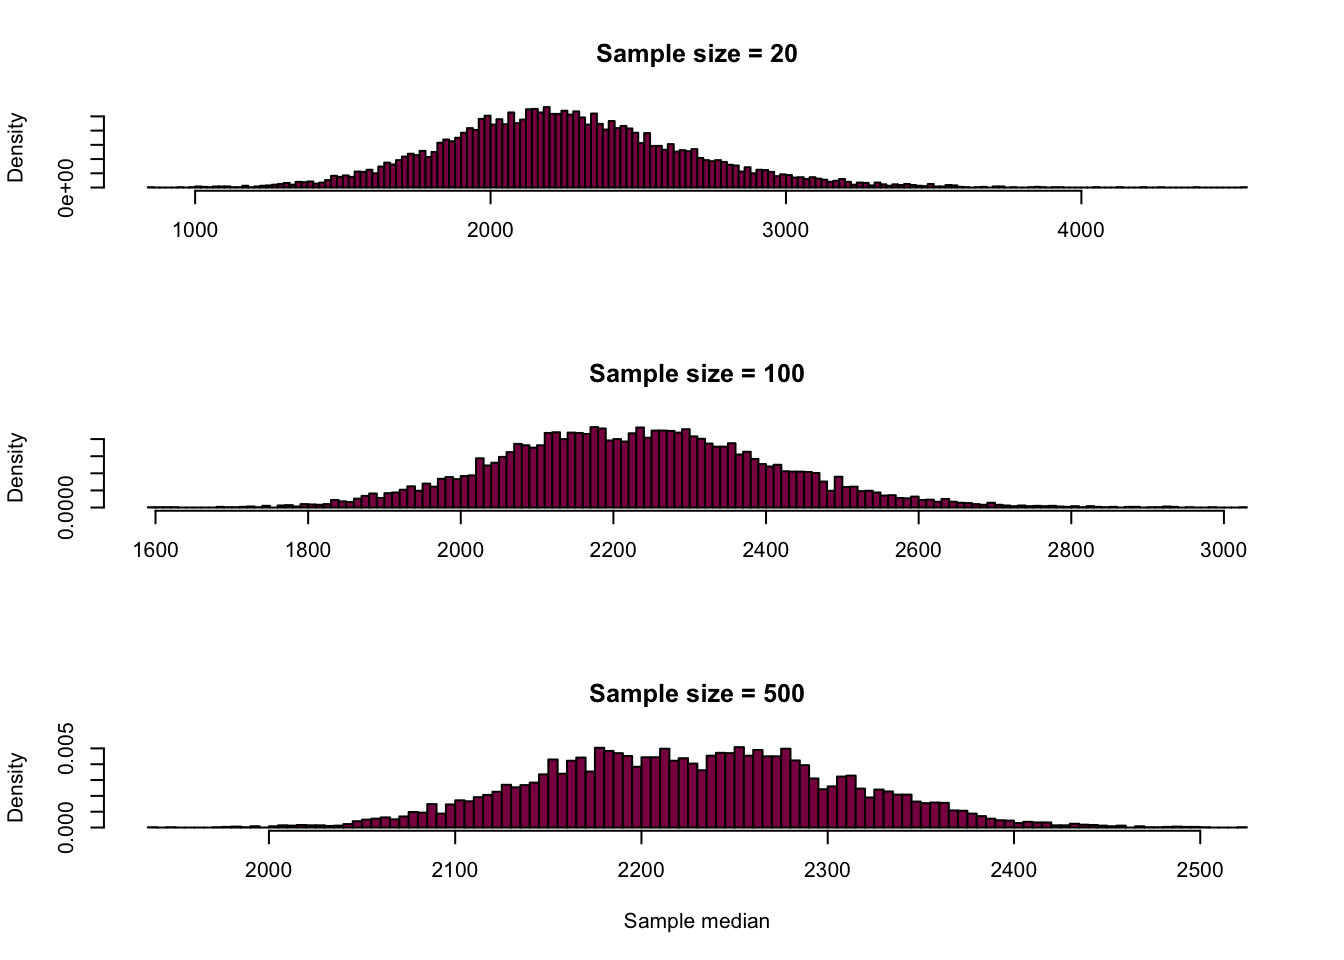
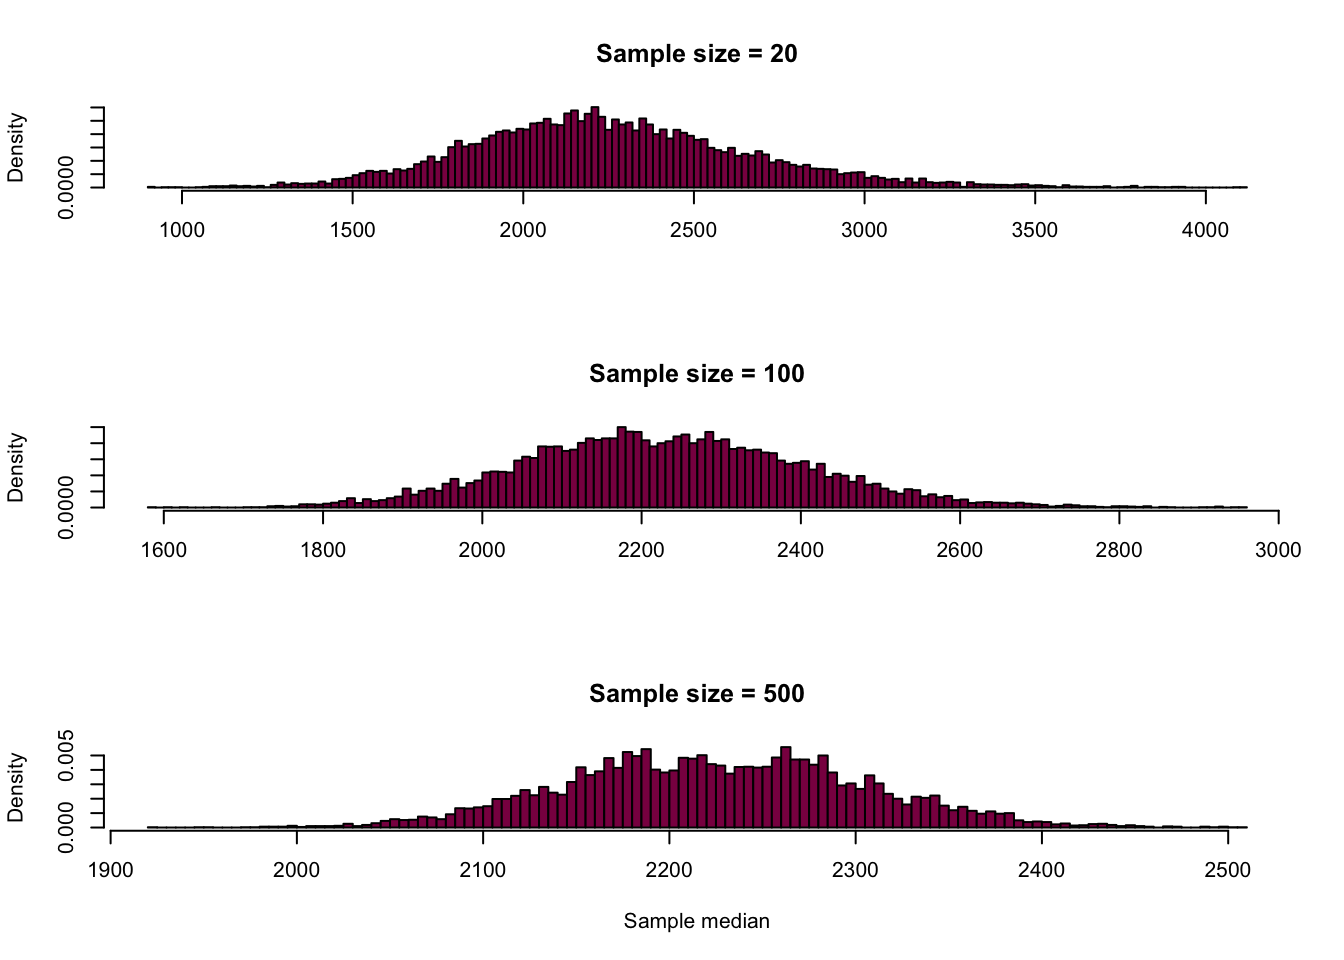
minor change

diff --git a/content/week3.html b/content/week3.html
@@ -5,12 +5,6 @@ date: '2018-02-14'
 slug: week-3
 categories: []
 tags: []
-theme: sandstone
-highlight: zenburn
-output:
-  rmarkdown::html_document:
-    theme: sandstone
-    highlight: zenburn
 ---
 
 
@@ -70,8 +64,7 @@ summary(regulatedGenes)</code></pre>
 <h4>What is the standard error of the mean?</h4>
 <pre class="r"><code>sd(regulatedGenes$ngenes)/sqrt(109)</code></pre>
 <pre><code>## [1] 0.7233423</code></pre>
-<pre class="r"><code># the standard error is the standard deviation divided by the square root of the sample size
-# and here the sample size is 109</code></pre>
+<pre class="r"><code># the standard error is the standard deviation divided by the square root of the sample size and here the sample size is 109</code></pre>
 </div>
 <div id="explain-what-this-standard-error-measures-and-what-assumptions-are-we-making-when-calculating-it." class="section level4">
 <h4>Explain what this standard error measures and what assumptions are we making when calculating it.</h4>
@@ -106,8 +99,7 @@ summary(regulatedGenes)</code></pre>
 <h4>How many genes are in the dataset?</h4>
 <pre class="r"><code>dim(HumanGeneLengths)</code></pre>
 <pre><code>## [1] 20290     1</code></pre>
-<pre class="r"><code>#this indicates the number of rows and the number of columns in the data
-# hence, the number of genes (20290) and the number of variables (1 - gene length)</code></pre>
+<pre class="r"><code># this indicates the number of rows and the number of columns in the data - hence, the number of genes (20290) and the number of variables (1 - gene length)</code></pre>
 </div>
 <div id="draw-a-histogram" class="section level4">
 <h4>Draw a histogram:</h4>
@@ -116,7 +108,7 @@ summary(regulatedGenes)</code></pre>
 </div>
 <div id="identify-what-the-options-col-main-and-xlab-are-allowing-you-to-do." class="section level4">
 <h4>Identify what the options col, main and xlab are allowing you to do.</h4>
-<p><strong>col:</strong> you can add color to your histogram (<a href="http://www.stat.columbia.edu/~tzheng/files/Rcolor.pdf">here is a cool color reference guide if you really want to make it fancy</a>)<br />
+<p><strong>col:</strong> you can add color to your histogram (<a href="http://www.stat.columbia.edu/~tzheng/files/Rcolor.pdf" target ="_blank">here is a cool color reference guide if you really want to make it fancy</a>)<br />
 <strong>main:</strong> adds the title to the histogram<br />
 <strong>xlab:</strong> adds the label on the x axis</p>
 </div>
@@ -216,12 +208,12 @@ myBreaks</code></pre>
 </div>
 <div id="generating-figure-4.1-2" class="section level3">
 <h3><a name="exercise2"></a>Generating Figure 4.1-2</h3>
-<div id="use-the-r-function-sample-to-get-a-vector-of-100-obs-drawn-from-humangenelengths-and-reproduce-fig-4.1-2" class="section level4">
-<h4>Use the R function sample() to get a vector of 100 obs drawn from HumanGeneLengths and reproduce fig 4.1-2</h4>
+<div id="use-the-r-function-sample-to-get-a-vector-of-100-observations-drawn-from-humangenelengths-and-reproduce-fig-4.1-2" class="section level4">
+<h4>Use the R function sample() to get a vector of 100 observations drawn from HumanGeneLengths and reproduce fig 4.1-2</h4>
 <p>Hint: Here is a simple example to draw 5 numbers with replacement from a “made-up” empirical distribution - adapt that for your purposes.</p>
 <pre class="r"><code>madeup=c(3,3,4,5,6,7,8,2,1,3,5,6,12,435,23)
 sample(x = madeup, size = 5,replace = T) # Q:what are the options x=, size= and replace=  specifying here (check the help)?</code></pre>
-<pre><code>## [1] 435   6   3   5   7</code></pre>
+<pre><code>## [1]  3 12  7  3  3</code></pre>
 <p><strong>x:</strong> the data that we want to draw samples from<br />
 <strong>size:</strong> the size of the sample that we want to take<br />
 <strong>replace:</strong> whether or not we want to sample with replacement</p>
@@ -245,7 +237,7 @@ sample(x = madeup, size = 5,replace = T) # Q:what are the options x=, size= and 
 </div>
 <div id="reproducing-figures-4.1-3-and-4.1-4" class="section level3">
 <h3><a name="exercise3"></a>Reproducing Figures 4.1-3 and 4.1-4</h3>
-<p>Conceptually, to generate by simulation the sampling distribution of mean gene length, we resample 100 datapoints, we calculate the mean in the sample and “write it down” and repeat that operation many times (say <span class="math inline">\(10^4\)</span> times).</p>
+<p>Conceptually, to generate by simulation the sampling distribution of mean gene length, we resample 100 datapoints, we calculate the mean in the sample and “write it down” and repeat that operation many times (say 10^4 times).</p>
 <p>In most programming languages there is a way to “repeat” a sequence of things x times —&gt; the for loop. Here is one basic example:</p>
 <pre class="r"><code>for (year in c(2010,2011,2012,2013,2014,2015)){
   print(paste(&quot;The year is&quot;, year))
@@ -262,15 +254,15 @@ sample(x = madeup, size = 5,replace = T) # Q:what are the options x=, size= and 
   mymedian=median(tryit) #we calculate the median of the sample
   cat(&quot;And the median is: &quot;, mymedian, &quot;\n&quot;) #we concatenate and print it out
 }</code></pre>
-<pre><code>## And the median is:  3 
-## And the median is:  7 
-## And the median is:  5 
-## And the median is:  3 
-## And the median is:  5 
+<pre><code>## And the median is:  6 
 ## And the median is:  6 
 ## And the median is:  6 
-## And the median is:  7 
 ## And the median is:  5 
+## And the median is:  7 
+## And the median is:  7 
+## And the median is:  6 
+## And the median is:  7 
+## And the median is:  4 
 ## And the median is:  3</code></pre>
 <p>Or we can be smart and instead of “printing it” we “write it down” i.e. store that in a vector:</p>
 <pre class="r"><code>myMedians = NULL # this initializes a &quot;nullvector&quot;
@@ -279,9 +271,9 @@ for (i in 1:10) {
   myMedians[i]=median(tryit) #we add the calculated medians to the nullvector
 }
 myMedians </code></pre>
-<pre><code>##  [1] 12  5  3  4 12  4  3  4  8  3</code></pre>
+<pre><code>##  [1] 5 5 5 3 5 5 6 3 5 3</code></pre>
 <div id="adapt-this-code-to-generate-fig-4.1-3-and-4.1-4-use-104-samples-to-get-the-sampling-distributions." class="section level4">
-<h4>Adapt this code to generate fig 4.1-3 and 4.1-4 (use <span class="math inline">\(10^4\)</span> samples to get the sampling distributions).</h4>
+<h4>Adapt this code to generate fig 4.1-3 and 4.1-4 (use 10^4 samples to get the sampling distributions).</h4>
 <pre class="r"><code>#nullvectors for the means (different sample sizes)
 meanLength_100 = NULL
 meanLength_20 = NULL
@@ -429,23 +421,23 @@ hist(medianLength_500,
 <h4>Compare the statistical precision we have to estimate mean SD and median: is the summary statistic that entails most uncertainty?</h4>
 <p>So we created all these nice sampling distributions and we can calculate the standard error to get an idea about their uncertainty:</p>
 <pre class="r"><code>sd(meanLength_20)/sqrt(20)</code></pre>
-<pre><code>## [1] 99.36335</code></pre>
+<pre><code>## [1] 101.5007</code></pre>
 <pre class="r"><code>sd(meanLength_100)/sqrt(100)</code></pre>
-<pre><code>## [1] 20.25069</code></pre>
+<pre><code>## [1] 20.19744</code></pre>
 <pre class="r"><code>sd(meanLength_500)/sqrt(500)</code></pre>
-<pre><code>## [1] 4.067715</code></pre>
+<pre><code>## [1] 4.089049</code></pre>
 <pre class="r"><code>sd(sdLength_20)/sqrt(20)</code></pre>
-<pre><code>## [1] 222.1336</code></pre>
+<pre><code>## [1] 220.503</code></pre>
 <pre class="r"><code>sd(sdLength_100)/sqrt(100)</code></pre>
-<pre><code>## [1] 67.69237</code></pre>
+<pre><code>## [1] 64.77963</code></pre>
 <pre class="r"><code>sd(sdLength_500)/sqrt(500)</code></pre>
-<pre><code>## [1] 21.16702</code></pre>
+<pre><code>## [1] 20.83721</code></pre>
 <pre class="r"><code>sd(medianLength_20)/sqrt(20)</code></pre>
-<pre><code>## [1] 91.11052</code></pre>
+<pre><code>## [1] 92.88807</code></pre>
 <pre class="r"><code>sd(medianLength_100)/sqrt(100)</code></pre>
-<pre><code>## [1] 17.71639</code></pre>
+<pre><code>## [1] 17.81047</code></pre>
 <pre class="r"><code>sd(medianLength_500)/sqrt(500)</code></pre>
-<pre><code>## [1] 3.572304</code></pre>
+<pre><code>## [1] 3.554274</code></pre>
 <p>We can see that if we compare the precision of our estimates given the 3 sample sizes, the n = 500 estimate is the most precise which is expected. If we take a look at the different summary statistics at the same sample sizes, we find that the median estimate is the least uncertain - this is also expected given that this statistic is the most resistant to the influence of the outliers while the mean and standard deviation are more sensitive to them (remember, the standard deviation is the most uncertain - it is calculated using the mean, which was already pretty sensitive to extreme observations!).</p>
 <p><em>Take me back to <a href="#toc">the beginning!</a></em></p>
 </div>

diff --git a/public/week-3/index.html b/public/week-3/index.html
@@ -104,8 +104,7 @@ summary(regulatedGenes)</code></pre>
 <h4>What is the standard error of the mean?</h4>
 <pre class="r"><code>sd(regulatedGenes$ngenes)/sqrt(109)</code></pre>
 <pre><code>## [1] 0.7233423</code></pre>
-<pre class="r"><code># the standard error is the standard deviation divided by the square root of the sample size
-# and here the sample size is 109</code></pre>
+<pre class="r"><code># the standard error is the standard deviation divided by the square root of the sample size and here the sample size is 109</code></pre>
 </div>
 <div id="explain-what-this-standard-error-measures-and-what-assumptions-are-we-making-when-calculating-it." class="section level4">
 <h4>Explain what this standard error measures and what assumptions are we making when calculating it.</h4>
@@ -140,8 +139,7 @@ summary(regulatedGenes)</code></pre>
 <h4>How many genes are in the dataset?</h4>
 <pre class="r"><code>dim(HumanGeneLengths)</code></pre>
 <pre><code>## [1] 20290     1</code></pre>
-<pre class="r"><code>#this indicates the number of rows and the number of columns in the data
-# hence, the number of genes (20290) and the number of variables (1 - gene length)</code></pre>
+<pre class="r"><code># this indicates the number of rows and the number of columns in the data - hence, the number of genes (20290) and the number of variables (1 - gene length)</code></pre>
 </div>
 <div id="draw-a-histogram" class="section level4">
 <h4>Draw a histogram:</h4>
@@ -150,7 +148,7 @@ summary(regulatedGenes)</code></pre>
 </div>
 <div id="identify-what-the-options-col-main-and-xlab-are-allowing-you-to-do." class="section level4">
 <h4>Identify what the options col, main and xlab are allowing you to do.</h4>
-<p><strong>col:</strong> you can add color to your histogram (<a href="http://www.stat.columbia.edu/~tzheng/files/Rcolor.pdf">here is a cool color reference guide if you really want to make it fancy</a>)<br />
+<p><strong>col:</strong> you can add color to your histogram (<a href="http://www.stat.columbia.edu/~tzheng/files/Rcolor.pdf" target ="_blank">here is a cool color reference guide if you really want to make it fancy</a>)<br />
 <strong>main:</strong> adds the title to the histogram<br />
 <strong>xlab:</strong> adds the label on the x axis</p>
 </div>
@@ -250,12 +248,12 @@ myBreaks</code></pre>
 </div>
 <div id="generating-figure-4.1-2" class="section level3">
 <h3><a name="exercise2"></a>Generating Figure 4.1-2</h3>
-<div id="use-the-r-function-sample-to-get-a-vector-of-100-obs-drawn-from-humangenelengths-and-reproduce-fig-4.1-2" class="section level4">
-<h4>Use the R function sample() to get a vector of 100 obs drawn from HumanGeneLengths and reproduce fig 4.1-2</h4>
+<div id="use-the-r-function-sample-to-get-a-vector-of-100-observations-drawn-from-humangenelengths-and-reproduce-fig-4.1-2" class="section level4">
+<h4>Use the R function sample() to get a vector of 100 observations drawn from HumanGeneLengths and reproduce fig 4.1-2</h4>
 <p>Hint: Here is a simple example to draw 5 numbers with replacement from a “made-up” empirical distribution - adapt that for your purposes.</p>
 <pre class="r"><code>madeup=c(3,3,4,5,6,7,8,2,1,3,5,6,12,435,23)
 sample(x = madeup, size = 5,replace = T) # Q:what are the options x=, size= and replace=  specifying here (check the help)?</code></pre>
-<pre><code>## [1] 435   6   3   5   7</code></pre>
+<pre><code>## [1]  3 12  7  3  3</code></pre>
 <p><strong>x:</strong> the data that we want to draw samples from<br />
 <strong>size:</strong> the size of the sample that we want to take<br />
 <strong>replace:</strong> whether or not we want to sample with replacement</p>
@@ -279,7 +277,7 @@ sample(x = madeup, size = 5,replace = T) # Q:what are the options x=, size= and 
 </div>
 <div id="reproducing-figures-4.1-3-and-4.1-4" class="section level3">
 <h3><a name="exercise3"></a>Reproducing Figures 4.1-3 and 4.1-4</h3>
-<p>Conceptually, to generate by simulation the sampling distribution of mean gene length, we resample 100 datapoints, we calculate the mean in the sample and “write it down” and repeat that operation many times (say <span class="math inline">\(10^4\)</span> times).</p>
+<p>Conceptually, to generate by simulation the sampling distribution of mean gene length, we resample 100 datapoints, we calculate the mean in the sample and “write it down” and repeat that operation many times (say 10^4 times).</p>
 <p>In most programming languages there is a way to “repeat” a sequence of things x times —&gt; the for loop. Here is one basic example:</p>
 <pre class="r"><code>for (year in c(2010,2011,2012,2013,2014,2015)){
   print(paste(&quot;The year is&quot;, year))
@@ -296,15 +294,15 @@ sample(x = madeup, size = 5,replace = T) # Q:what are the options x=, size= and 
   mymedian=median(tryit) #we calculate the median of the sample
   cat(&quot;And the median is: &quot;, mymedian, &quot;\n&quot;) #we concatenate and print it out
 }</code></pre>
-<pre><code>## And the median is:  3 
-## And the median is:  7 
-## And the median is:  5 
-## And the median is:  3 
-## And the median is:  5 
+<pre><code>## And the median is:  6 
 ## And the median is:  6 
 ## And the median is:  6 
-## And the median is:  7 
 ## And the median is:  5 
+## And the median is:  7 
+## And the median is:  7 
+## And the median is:  6 
+## And the median is:  7 
+## And the median is:  4 
 ## And the median is:  3</code></pre>
 <p>Or we can be smart and instead of “printing it” we “write it down” i.e. store that in a vector:</p>
 <pre class="r"><code>myMedians = NULL # this initializes a &quot;nullvector&quot;
@@ -313,9 +311,9 @@ for (i in 1:10) {
   myMedians[i]=median(tryit) #we add the calculated medians to the nullvector
 }
 myMedians </code></pre>
-<pre><code>##  [1] 12  5  3  4 12  4  3  4  8  3</code></pre>
+<pre><code>##  [1] 5 5 5 3 5 5 6 3 5 3</code></pre>
 <div id="adapt-this-code-to-generate-fig-4.1-3-and-4.1-4-use-104-samples-to-get-the-sampling-distributions." class="section level4">
-<h4>Adapt this code to generate fig 4.1-3 and 4.1-4 (use <span class="math inline">\(10^4\)</span> samples to get the sampling distributions).</h4>
+<h4>Adapt this code to generate fig 4.1-3 and 4.1-4 (use 10^4 samples to get the sampling distributions).</h4>
 <pre class="r"><code>#nullvectors for the means (different sample sizes)
 meanLength_100 = NULL
 meanLength_20 = NULL
@@ -463,23 +461,23 @@ hist(medianLength_500,
 <h4>Compare the statistical precision we have to estimate mean SD and median: is the summary statistic that entails most uncertainty?</h4>
 <p>So we created all these nice sampling distributions and we can calculate the standard error to get an idea about their uncertainty:</p>
 <pre class="r"><code>sd(meanLength_20)/sqrt(20)</code></pre>
-<pre><code>## [1] 99.36335</code></pre>
+<pre><code>## [1] 101.5007</code></pre>
 <pre class="r"><code>sd(meanLength_100)/sqrt(100)</code></pre>
-<pre><code>## [1] 20.25069</code></pre>
+<pre><code>## [1] 20.19744</code></pre>
 <pre class="r"><code>sd(meanLength_500)/sqrt(500)</code></pre>
-<pre><code>## [1] 4.067715</code></pre>
+<pre><code>## [1] 4.089049</code></pre>
 <pre class="r"><code>sd(sdLength_20)/sqrt(20)</code></pre>
-<pre><code>## [1] 222.1336</code></pre>
+<pre><code>## [1] 220.503</code></pre>
 <pre class="r"><code>sd(sdLength_100)/sqrt(100)</code></pre>
-<pre><code>## [1] 67.69237</code></pre>
+<pre><code>## [1] 64.77963</code></pre>
 <pre class="r"><code>sd(sdLength_500)/sqrt(500)</code></pre>
-<pre><code>## [1] 21.16702</code></pre>
+<pre><code>## [1] 20.83721</code></pre>
 <pre class="r"><code>sd(medianLength_20)/sqrt(20)</code></pre>
-<pre><code>## [1] 91.11052</code></pre>
+<pre><code>## [1] 92.88807</code></pre>
 <pre class="r"><code>sd(medianLength_100)/sqrt(100)</code></pre>
-<pre><code>## [1] 17.71639</code></pre>
+<pre><code>## [1] 17.81047</code></pre>
 <pre class="r"><code>sd(medianLength_500)/sqrt(500)</code></pre>
-<pre><code>## [1] 3.572304</code></pre>
+<pre><code>## [1] 3.554274</code></pre>
 <p>We can see that if we compare the precision of our estimates given the 3 sample sizes, the n = 500 estimate is the most precise which is expected. If we take a look at the different summary statistics at the same sample sizes, we find that the median estimate is the least uncertain - this is also expected given that this statistic is the most resistant to the influence of the outliers while the mean and standard deviation are more sensitive to them (remember, the standard deviation is the most uncertain - it is calculated using the mean, which was already pretty sensitive to extreme observations!).</p>
 <p><em>Take me back to <a href="#toc">the beginning!</a></em></p>
 </div>
